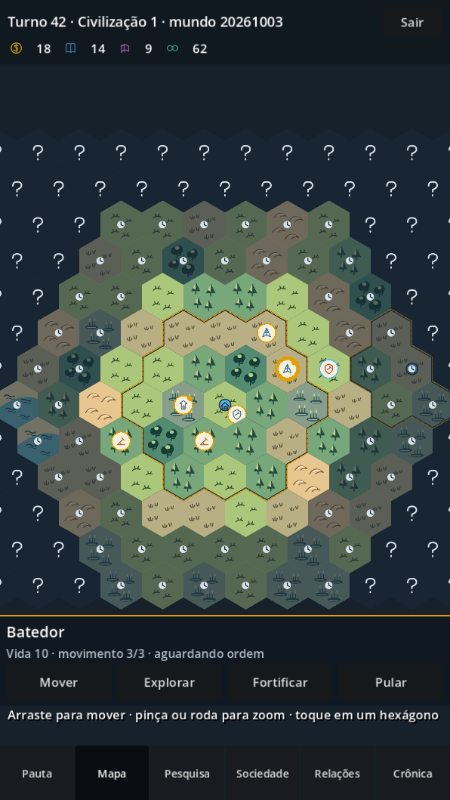
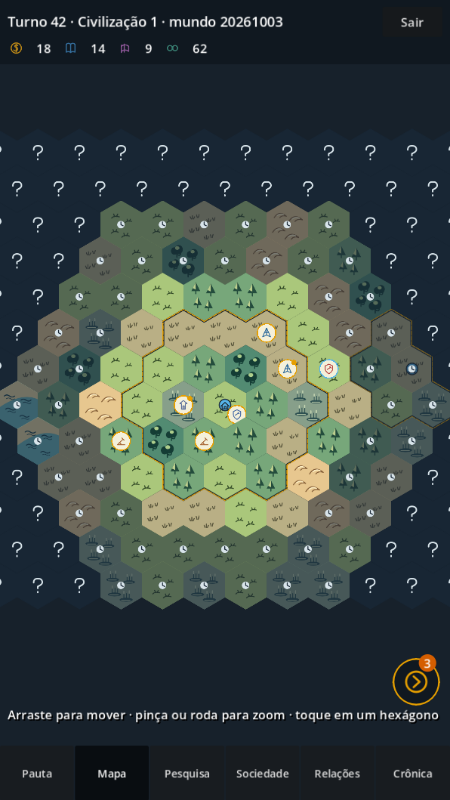
feat(front): compact Pronto button with remaining-decisions badge
Floating icon button outside the Pauta (bottom-right, above the map hint and any open card). The badge counts the capital still to found, unanswered events and idle units. Tapping walks them in a stable order (capital, events, units by id); with none left it sends Pronto through the Pauta path and waits for the turn to advance. Adds the proxima-decisao icon.

diff --git a/client/README.md b/client/README.md
@@ -20,7 +20,7 @@ $GODOT --headless --path client -s res://tests/live_flow.gd
 # abrir o jogo (janela): começa na tela inicial (servidor, criar mundo, entrar, demonstração)
 $GODOT --path client
 # argumentos úteis, depois de "--": --server=ws://host:porta/ws  --demo=pauta|servidor
-#   --screen=pauta|mapa|pesquisa  --select-capital  --select-unit=<id>
+#   --screen=pauta|mapa|pesquisa  --select-capital  --select-unit=<id>  --no-decisions
 ```
 
 A tela inicial pede a URL do servidor (padrão `ws://127.0.0.1:8100/ws`). **Criar mundo** envia
@@ -29,7 +29,7 @@ A tela inicial pede a URL do servidor (padrão `ws://127.0.0.1:8100/ws`). **Cria
 `fixtures/state_snapshot.json` (escrito à mão) e "visão do servidor" abre `fixtures/server_view.json`
 e `fixtures/server_catalog.json`, no formato real de `view_for` e do frame `catalog`.
 
-Capturas em `client/docs/` (`inicio`, `pauta`, `pauta-unidades`, `mapa`, `pesquisa`), geradas com
+Capturas em `client/docs/` (`inicio`, `pauta`, `pauta-unidades`, `mapa`, `mapa-pronto`, `pesquisa`), geradas com
 `--write-movie <pasta existente>/frame.png --quit-after 20 --resolution 720x1280` e pegando o último quadro.
 
 ## O que é real
@@ -44,6 +44,7 @@ Capturas em `client/docs/` (`inicio`, `pauta`, `pauta-unidades`, `mapa`, `pesqui
 - Adaptador da visão do servidor (`scripts/server_view.gd`): `tile` row-major para célula odd-r, terreno numérico para bioma, fronteiras derivadas de `owner`, cidades, unidades (`order`, `skipped_turn`), `idle_units` e eventos pendentes da Entropia como cartões da Pauta. Campos opcionais ausentes são tolerados.
 - Unidades no mapa (ícone por tipo/papel, cor da civilização, marca âmbar quando ociosa), cartão da unidade com **Mover** (toque no destino, `MoveTo`), **Explorar**, **Fortificar** e **Pular**. A ordem só aparece na tela depois de `command_accepted`.
 - Pauta com a fila de unidades ociosas (toque centraliza o mapa) e **Pronto** desabilitado com "N unidades aguardam ordem"; `units_awaiting_orders` pede novo snapshot.
+- Botão **Pronto** compacto (`scripts/ready_fab.gd`) fora da Pauta: selo com as decisões restantes (capital por fundar, eventos sem escolha, unidades ociosas). Com decisões, leva à próxima (capital, eventos na Pauta, unidades por id); com zero, envia `ready` pelo mesmo caminho do botão da Pauta e depois espera o turno avançar. Só conta eventos que aparecem na Pauta (limite de 3 cartões).
 - Pesquisa (só leitura) a partir do frame `catalog`: colunas por profundidade de pré-requisito, dominadas, atual e progresso (`scripts/catalog_view.gd`, `scripts/tech_view.gd`).
 
 ## O que é placeholder ou limitado
